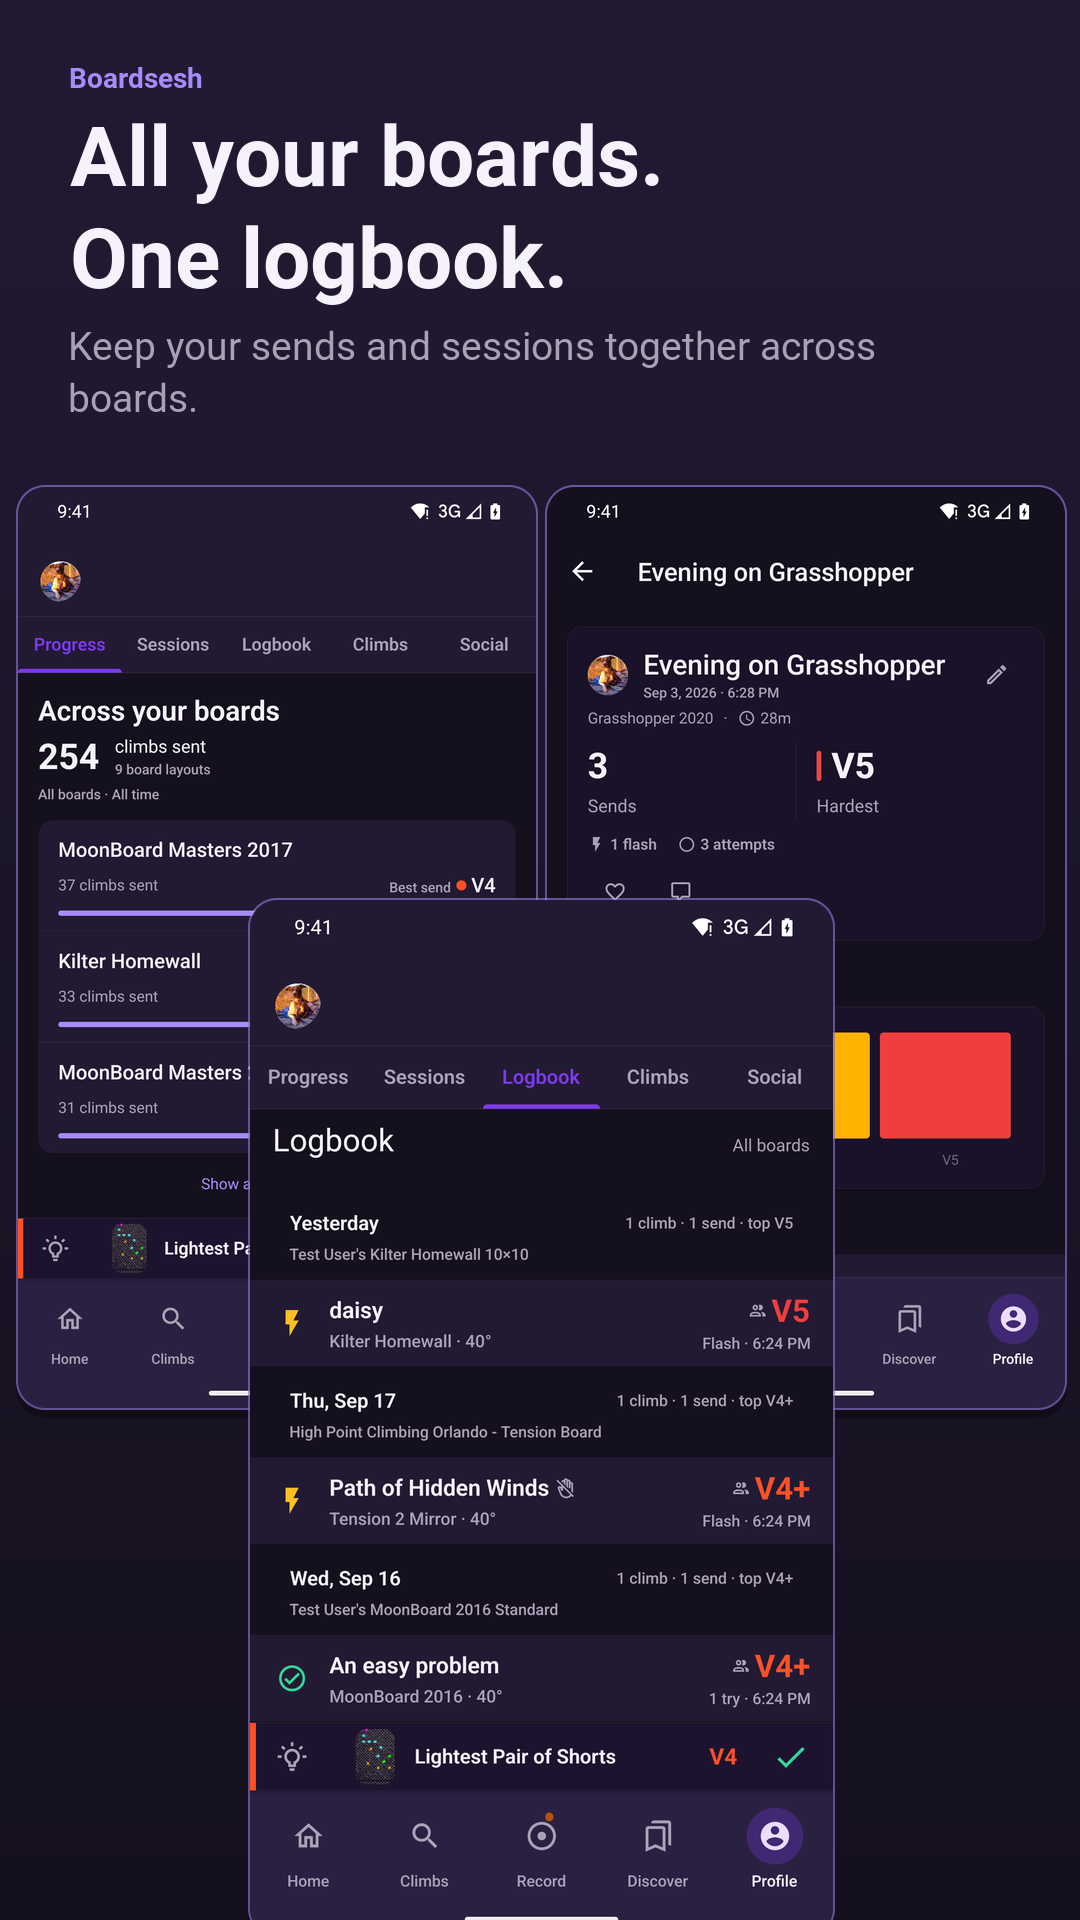
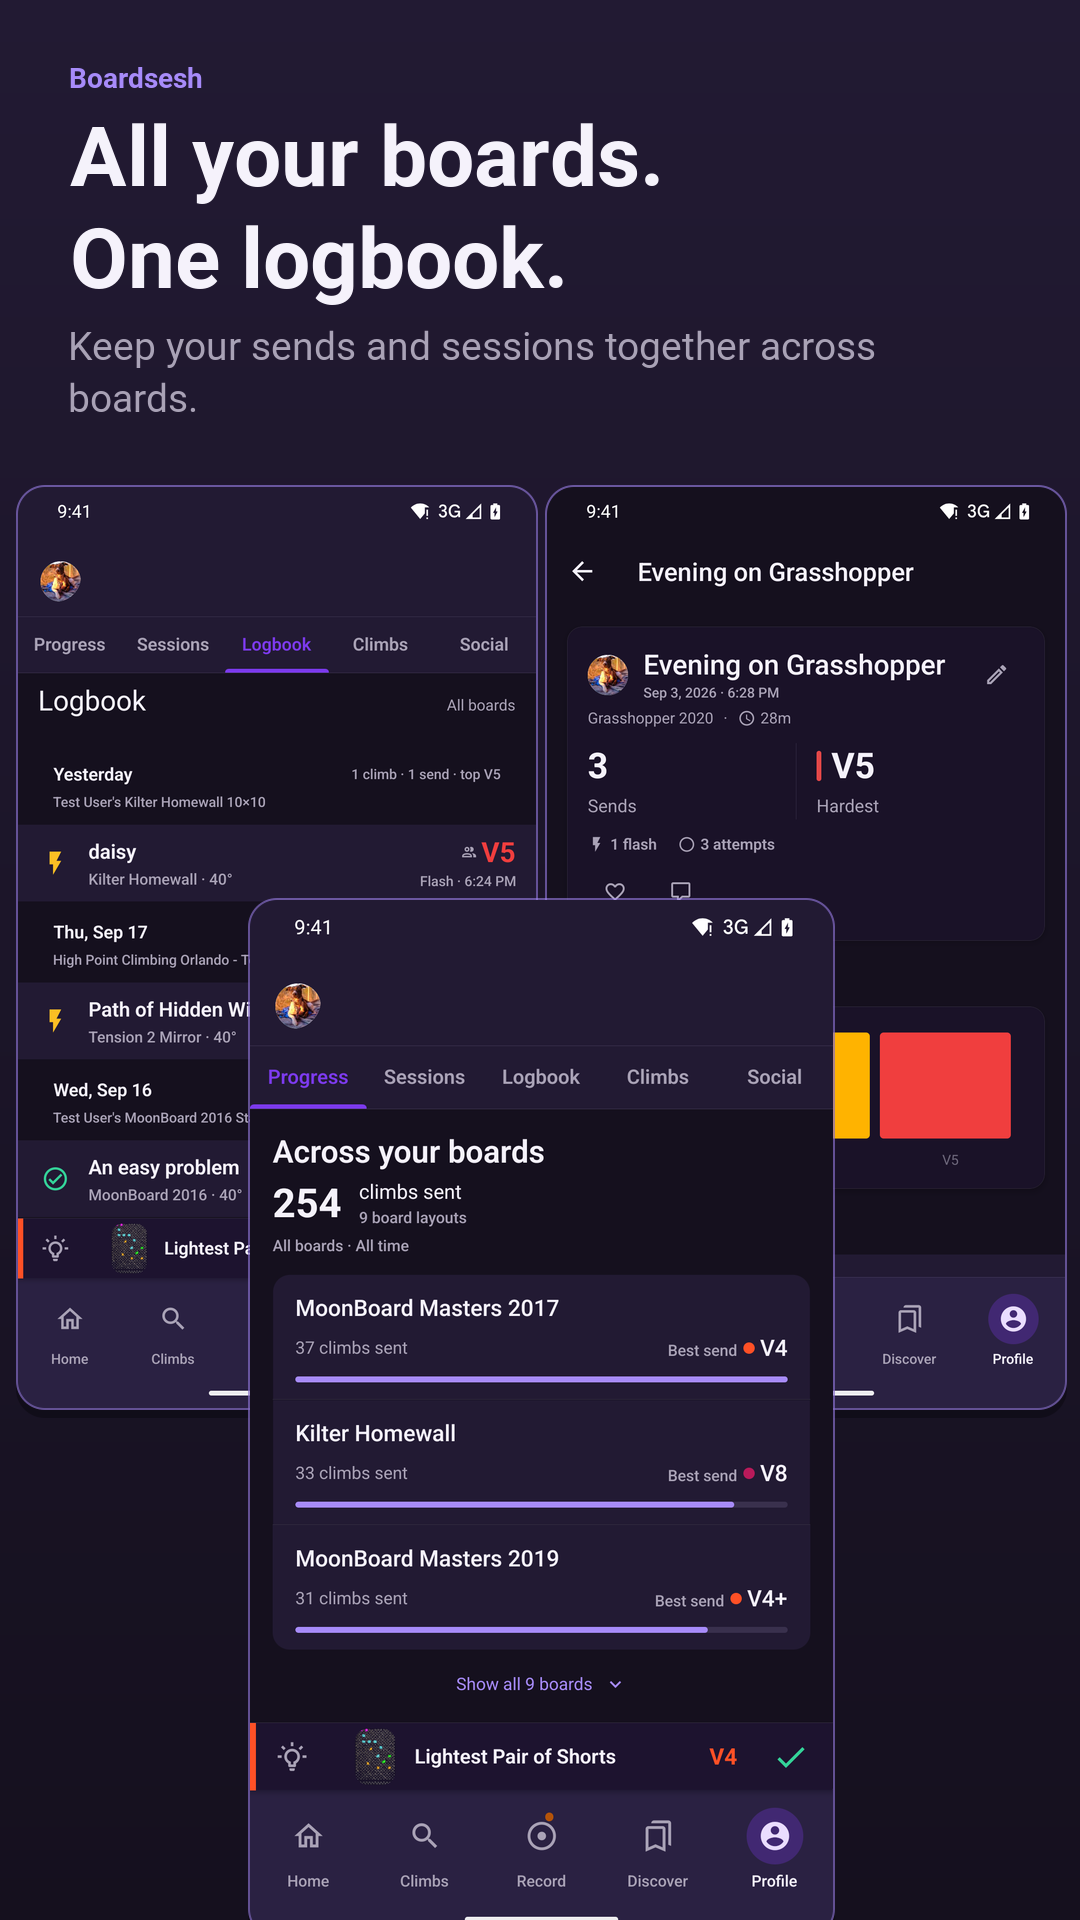
fix(mobile-screenshots): center the cross-board profile overview

Changed region(s): [[0.0306, 0.3125, 0.7639, 0.9062], [0.3972, 0.4375, 0.4889, 0.4688]]

diff --git a/scripts/__tests__/screenshot-presentation.test.ts b/scripts/__tests__/screenshot-presentation.test.ts
@@ -255,7 +255,7 @@ describe('store screenshot presentation', () => {
     );
   });
 
-  it('requires both history sources and puts the logbook in the foreground', () => {
+  it('requires both history sources and puts the board overview in the foreground', () => {
     const names = [
       ...Object.keys(screenshotCaptions('android', 'pixel-2')),
       '08-moonboard-board-view.png',
@@ -273,7 +273,7 @@ describe('store screenshot presentation', () => {
       output: '07-profile.png',
       caption: 'crossBoardLogbook',
       layout: 'cross-board-logbook',
-      sources: ['06-profile.png', '14-logbook.png', '15-session-detail.png'],
+      sources: ['14-logbook.png', '06-profile.png', '15-session-detail.png'],
     });
     for (const missing of ['14-logbook.png', '15-session-detail.png']) {
       expect(() =>

diff --git a/scripts/lib/screenshot-presentation.ts b/scripts/lib/screenshot-presentation.ts
@@ -157,7 +157,7 @@ export function resolveScreenshotRecipes(
             output: '07-profile.png',
             caption: 'crossBoardLogbook',
             layout: 'cross-board-logbook',
-            sources: ['06-profile.png', ...PROFILE_HISTORY_CAPTURES],
+            sources: ['14-logbook.png', '06-profile.png', '15-session-detail.png'],
           }
         : { output: '07-profile.png', caption: 'profile', layout: 'screen', sources: ['06-profile.png'] },
     ];
